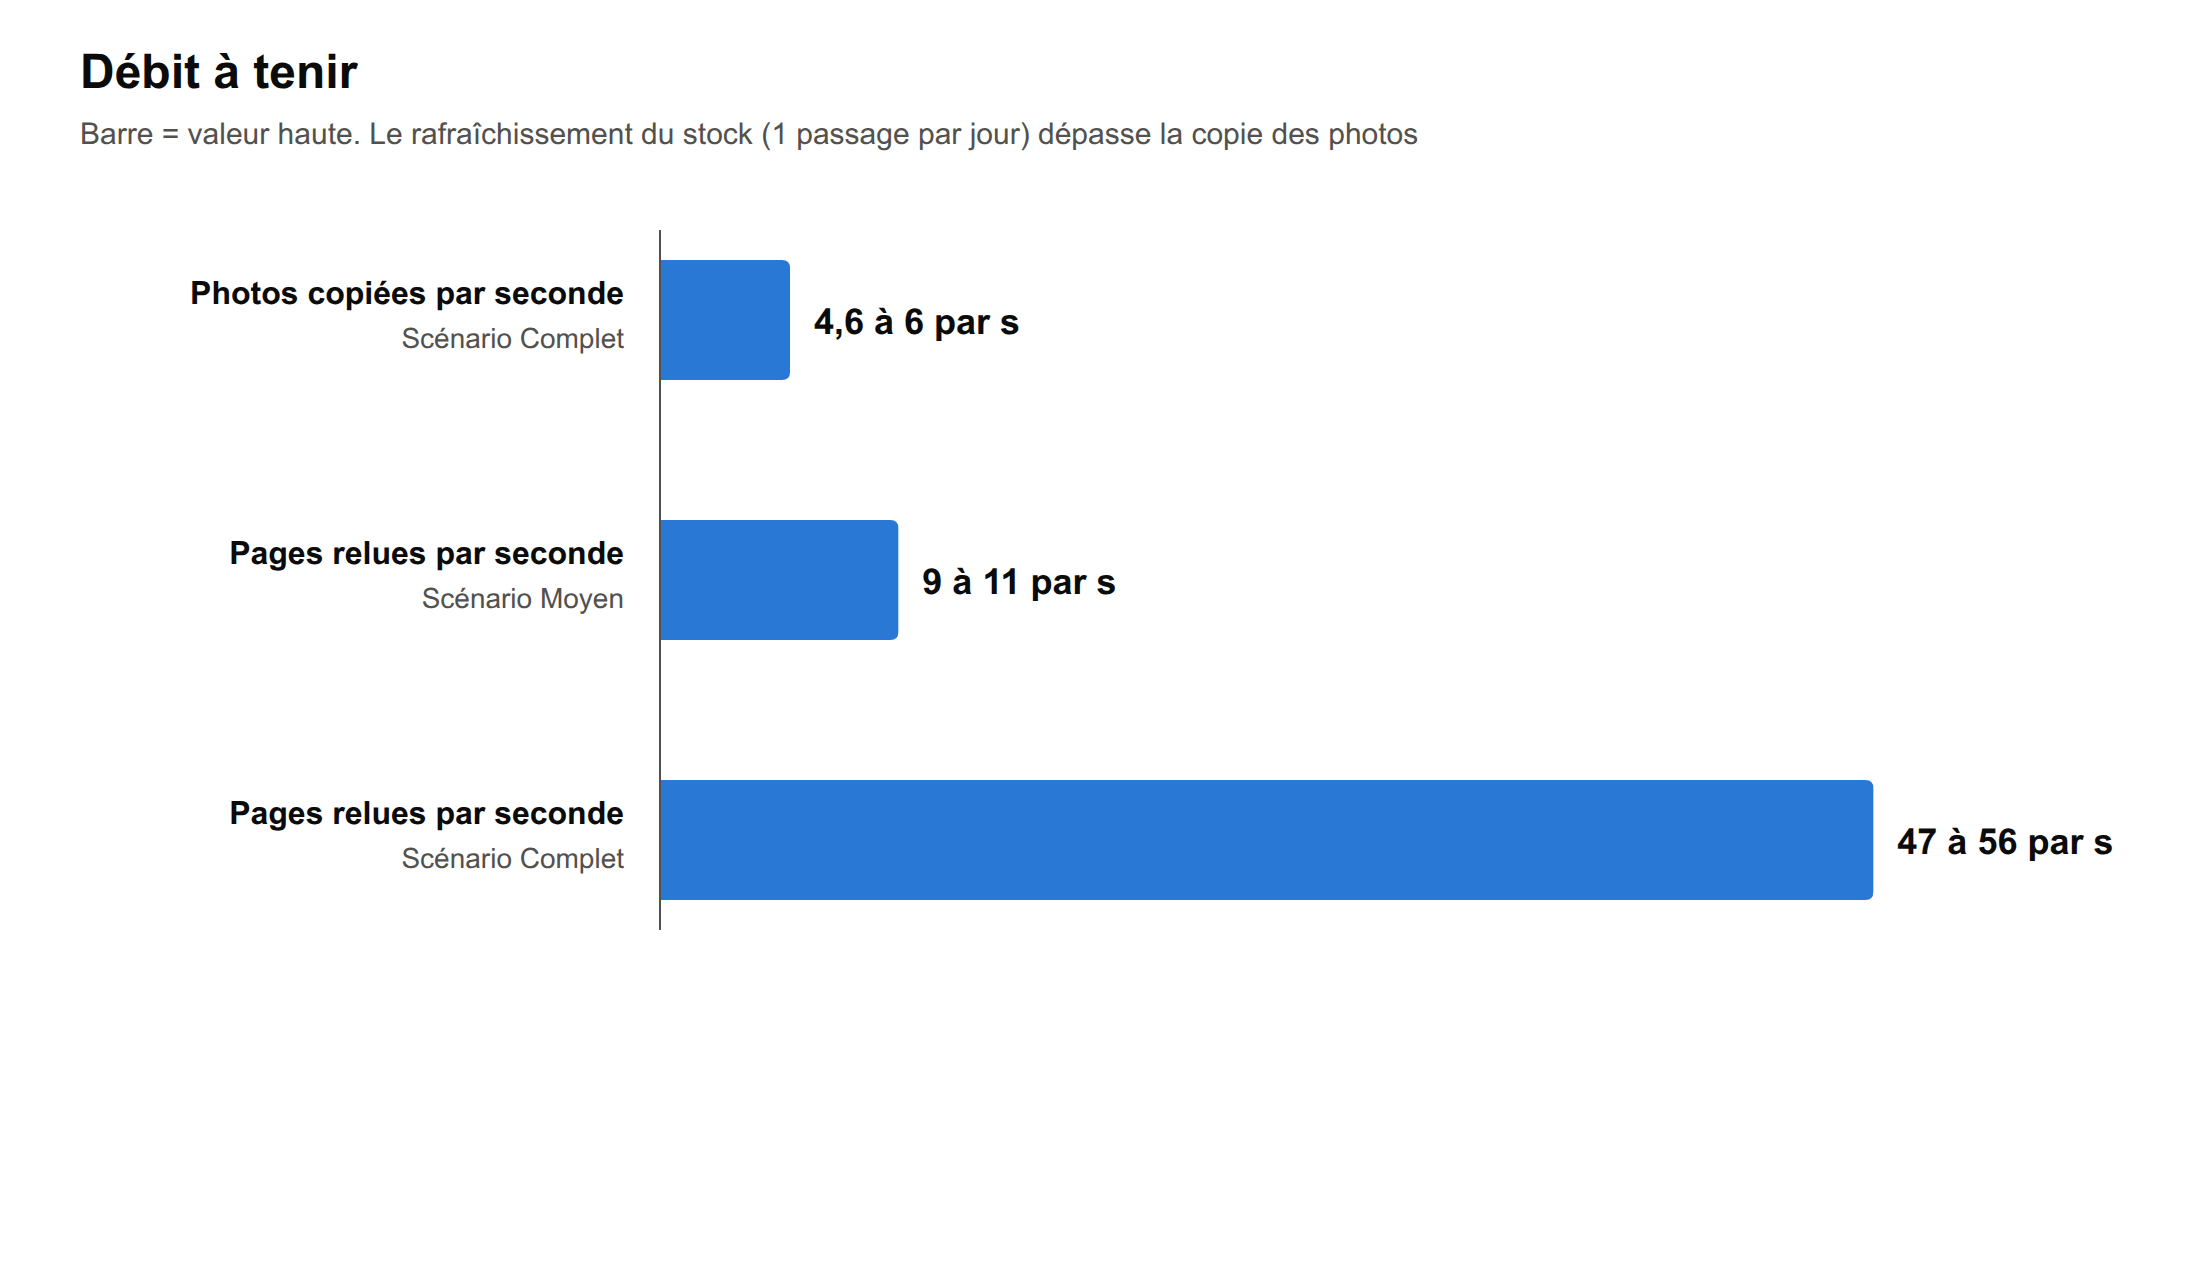
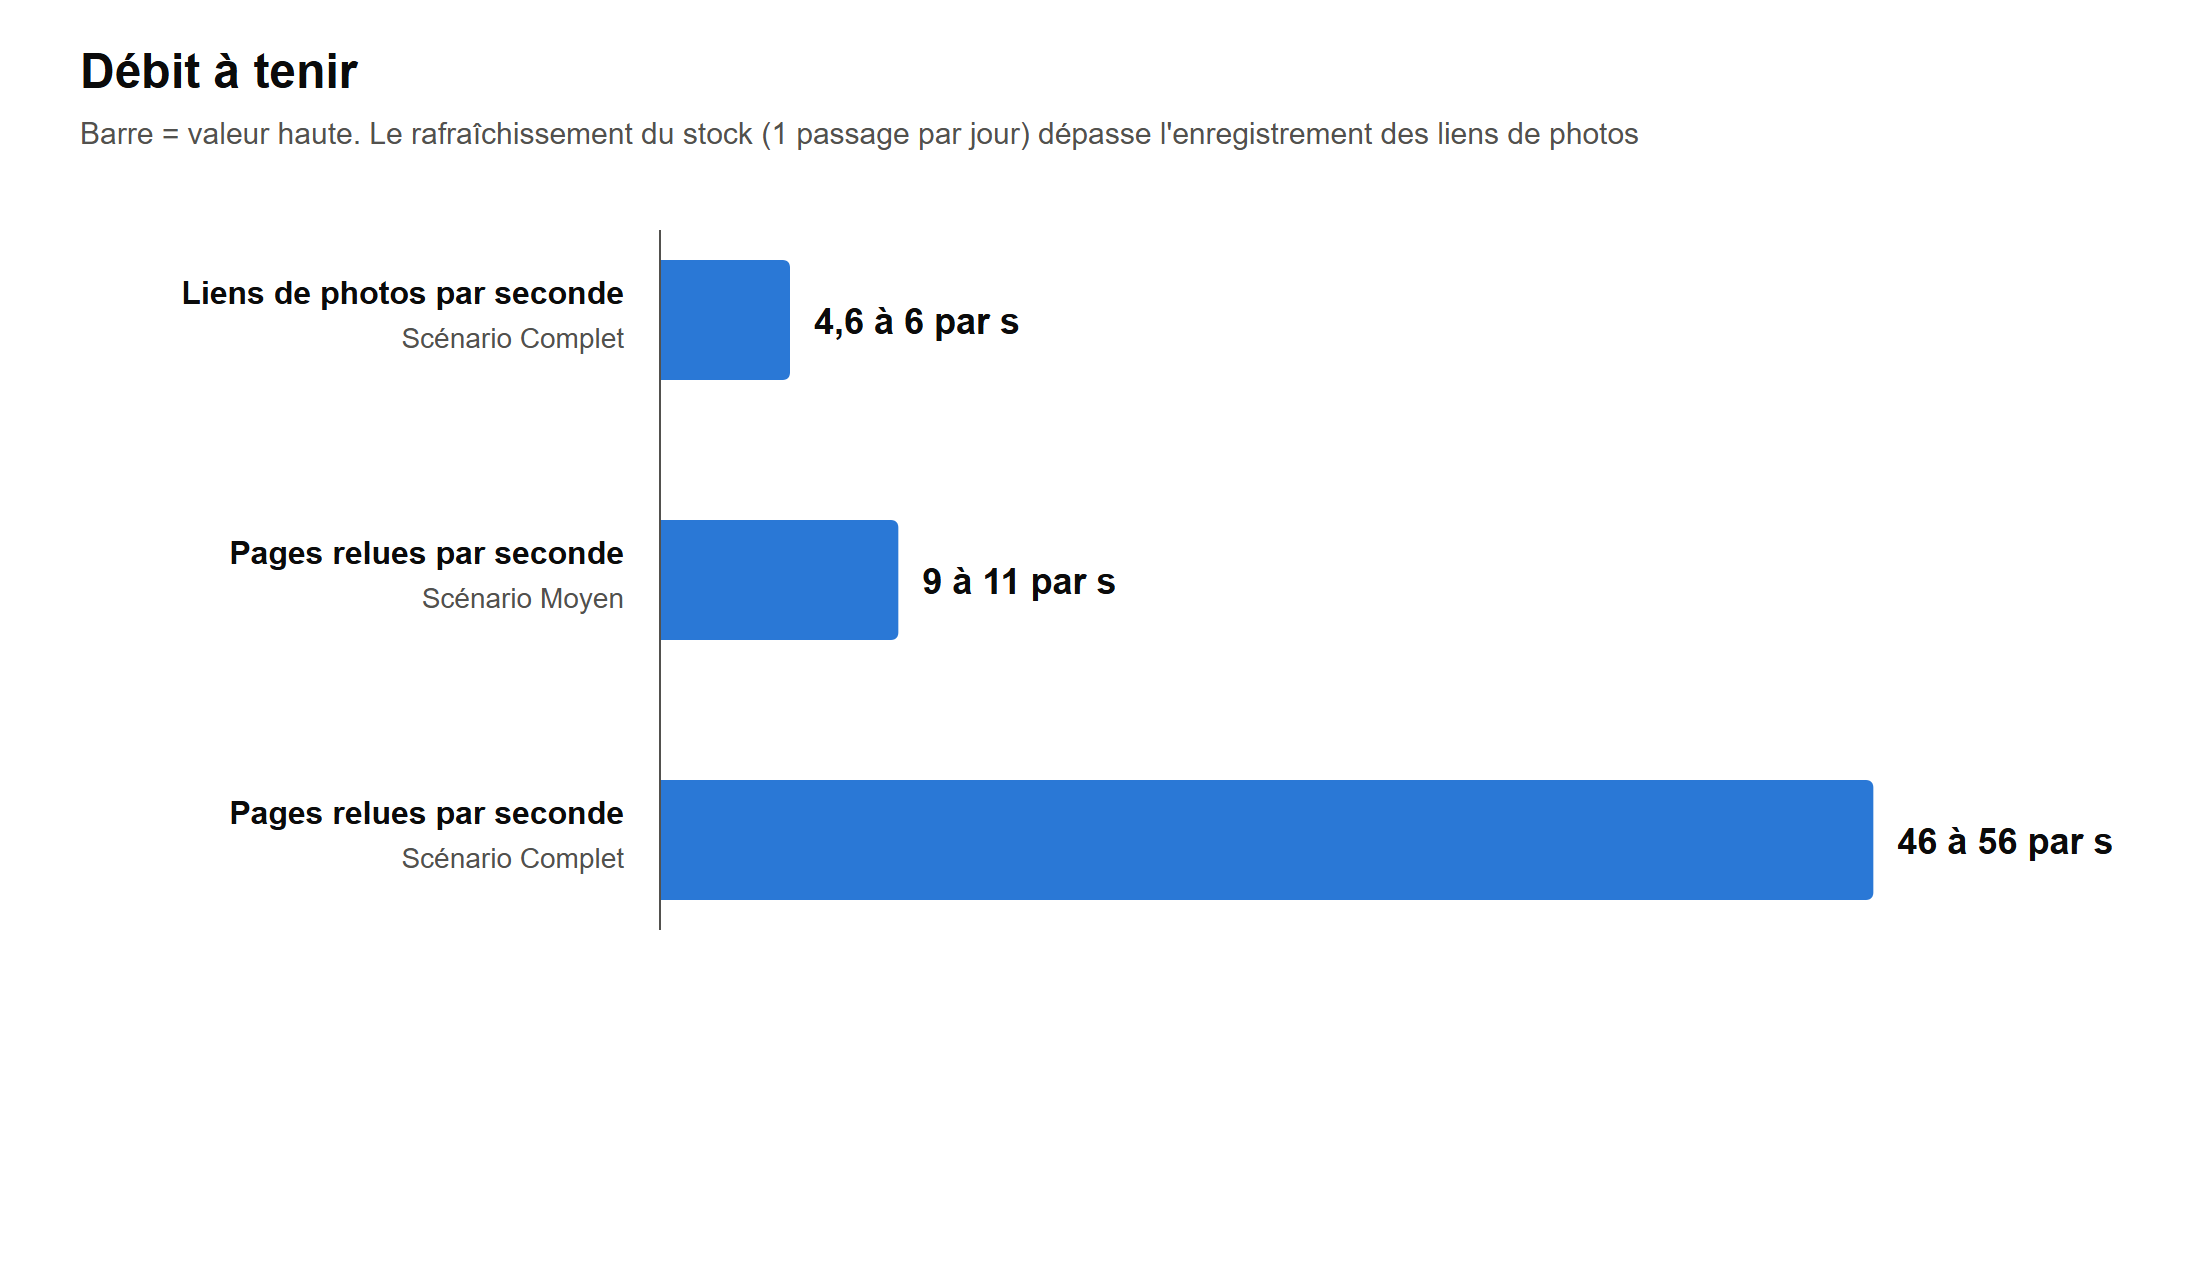
docs(3v): graphique de débit corrigé (46 pages/s, liens de photos) et affiché
Modifié avec l'accord de Gabriel (Discord, 2026-11-20) ; PNG redessiné
depuis le SVG.

Claude-Session: https://claude.ai/code/session_014vrx3PMn3sQwKyoHW543R6

diff --git a/livrables/3-architecture/3.1-note-dimensionnement-3v.md b/livrables/3-architecture/3.1-note-dimensionnement-3v.md
@@ -44,6 +44,8 @@ Deux façons de remplir le catalogue : **Moyen** (20 % du marché, à confirmer)
 | Nouveaux biens par jour | 4 000 à 5 200 | 20 000 à 25 800 |
 | Pages d'agences relues par seconde (une fois par jour et par bien) | 9 à 11 | 46 à 56 |
 
+![Débit à tenir : 4,6 à 6 liens de photos par seconde, 9 à 56 pages relues par seconde](annexes/dimensionnement-3v/4-debit-scraping.png)
+
 - Le rafraîchissement du catalogue décide du nombre de machines de scraping. Les écritures en base, elles, restent faibles (4,6 à 6 liens de photos par seconde).
 - ⚠ Ce sont des **moyennes** : aucun pic n'est chiffré.
 
